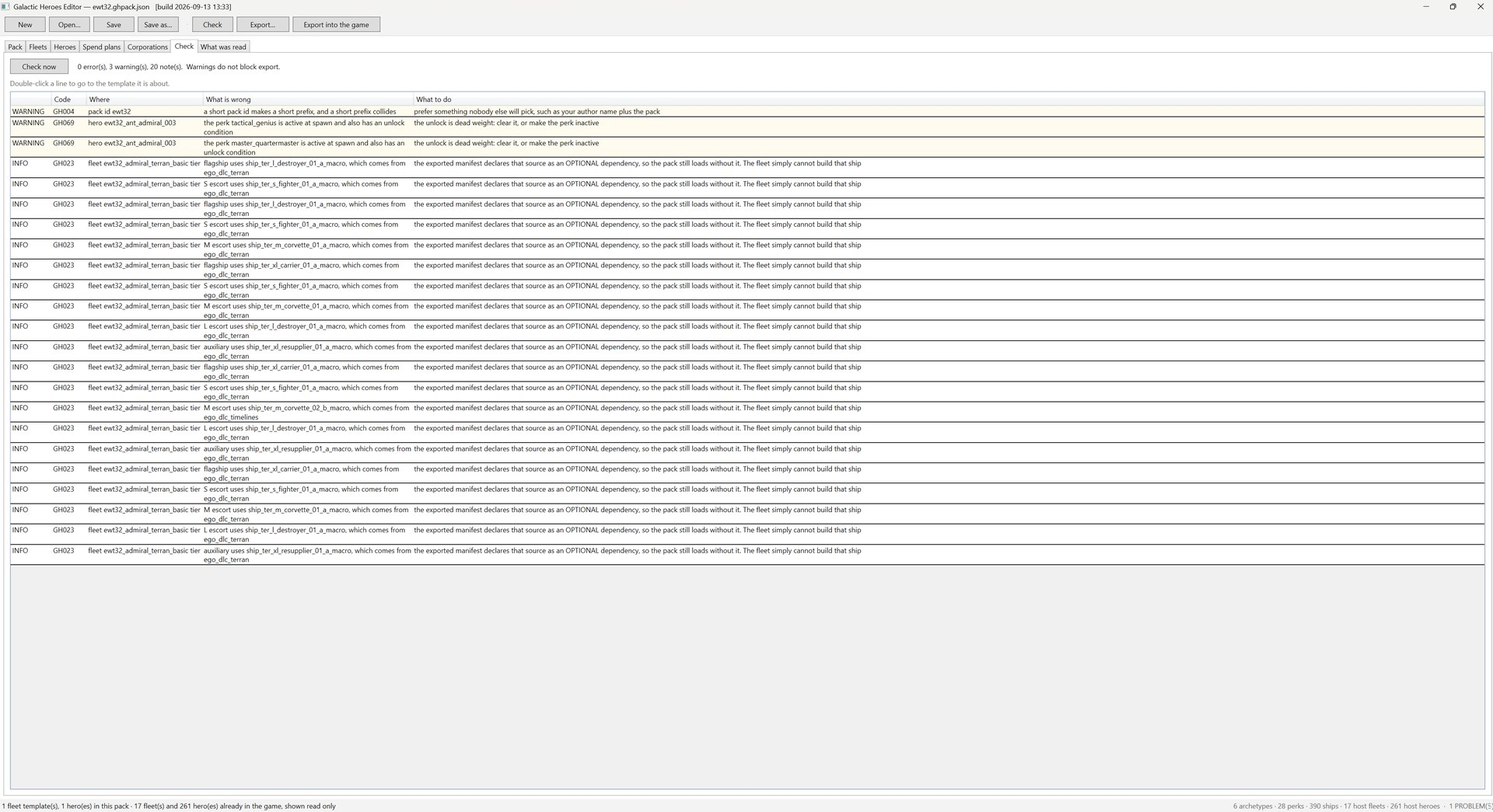
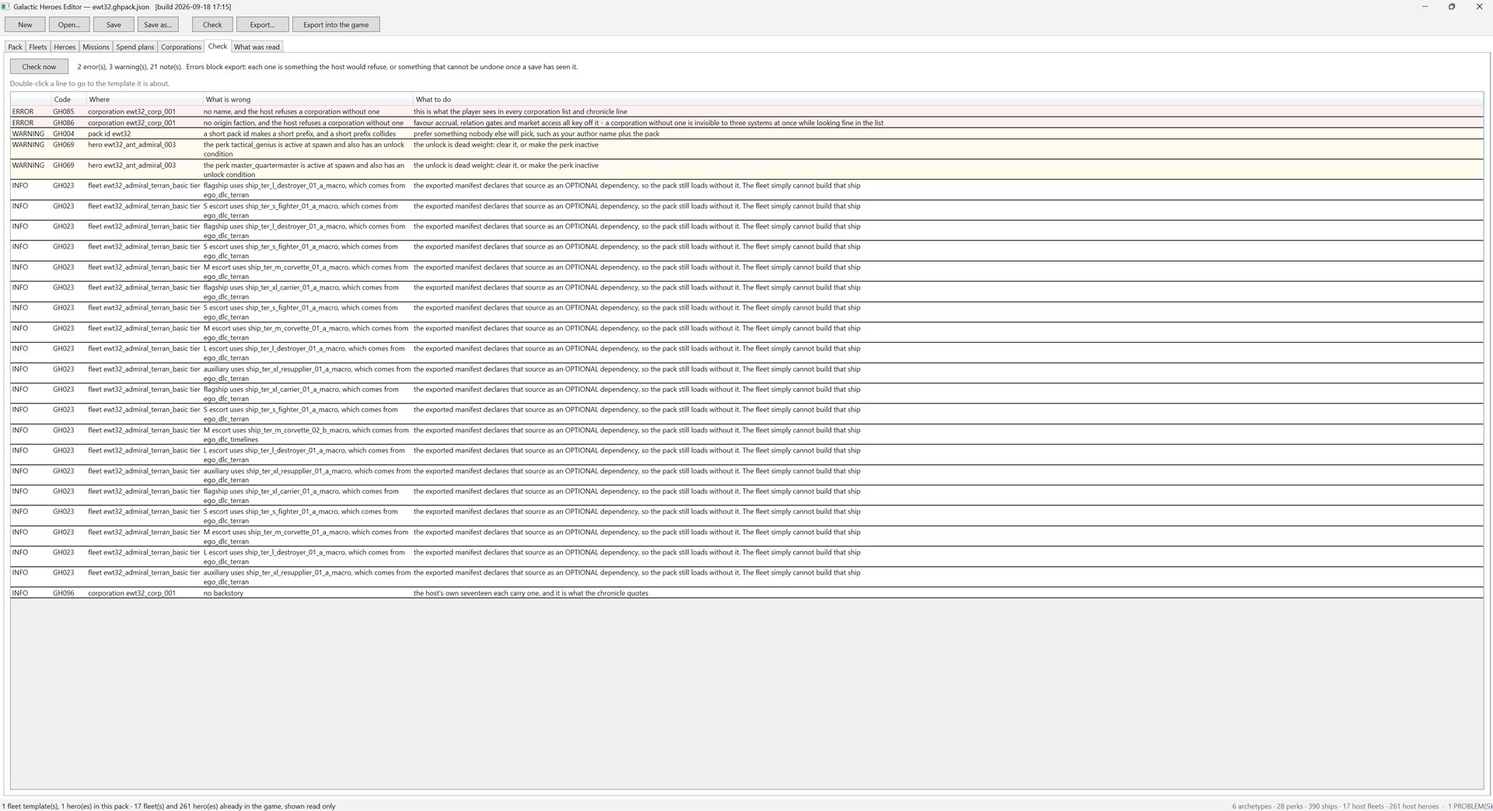
docs: re-shot against the build that reads the mod's words
Thirteen captures replacing twelve. The set now shows the 17:15 build, which
is the first that resolves the host's text page, so ranks read "Vice Admiral
Eli Sorensen", perks read "Veteran - +200 XP at spawn" and the seventeen
companies read "Cinderhaul Reclamation" instead of readtext ids. Five of the
decision kinds that used to show a blank archetype cell now name all six.

New: the Missions tab has a screenshot instead of an apology. The left-hand
shape claim is split, because Missions and Spend plans list only the pack's
own objects while Fleets, Heroes and Corporations show the host's beside them.

The Check shot is now a pack that CANNOT export - a half-written corporation
with no name and no origin faction - which teaches more than the clean one
did, so the prose walks the two errors, the three warnings and the twenty-one
notes rather than calling it healthy.

One caution added that the screen itself cannot say: the task-kind table
reads "admiral" for swarm_summon, hive_development, gate_defense,
fleet_defense, call_for_help and expansion. That is the BOARD SECTION, not
the owner - all six are Kha'ak work claimed by the hive lord and the seeder.
The editor shows the catalogue faithfully; the catalogue is what is wrong.

Changed region(s): [[0.0, 0.1227, 1.0, 0.767], [0.0, 0.9511, 1.0, 1.0], [0.0625, 0.0307, 0.375, 0.092]]

diff --git a/src/content/docs/mods/galactic-heroes/editor/reference.md b/src/content/docs/mods/galactic-heroes/editor/reference.md
@@ -7,7 +7,7 @@ The [walkthrough](../walkthrough/) builds one pack end to end. This page is the 
 
 ## The window
 
-The title bar carries the open pack file and **the build stamp of the editor itself** — `Galactic Heroes Editor — ewt32.ghpack.json [build 2026-09-13 13:33]`, and `DEBUG` when it is a debug build. Which build am I looking at should be a reading, not a deduction.
+The title bar carries the open pack file and **the build stamp of the editor itself** — `Galactic Heroes Editor — ewt32.ghpack.json [build 2026-09-18 17:15]`, and `DEBUG` when it is a debug build. Which build am I looking at should be a reading, not a deduction.
 
 The toolbar is seven buttons:
 
@@ -33,15 +33,15 @@ The status bar is two halves. On the left, what is in this pack and what the hos
 | **Check** | nothing — it reports | 86 rules |
 | **What was read** | nothing — it reports | six screens proving the harvest |
 
-Every authoring tab has the same left-hand shape: a filter box, then **In this pack** above **Already in Galactic Heroes — read only**, then **Add**, **Copy into this pack** and **Remove**. Host objects are shown so you can read, filter and copy them; they can never be edited, because an edit to something the host owns would be silently discarded and the host may reshape it in any later version.
+**Fleets**, **Heroes** and **Corporations** share a left-hand shape: a filter box, then **In this pack** above **Already in Galactic Heroes — read only**, then **Add**, **Copy into this pack** and **Remove**. Host objects are shown so you can read, filter and copy them; they can never be edited, because an edit to something the host owns would be silently discarded and the host may reshape it in any later version.
+
+**Missions** and **Spend plans** list only what the pack itself defines, with **Add**, **Copy** and **Delete**. What the host already declares is on the *What was read* screens instead — [Spend](#spend--the-hosts-plans-in-order) for its eleven plans.
 
 ## Missions
 
 A corporation mission is paid work a company offers you against a rival it is already fighting. The mod ships six; a pack can add more. See [Corporation missions](../../corporate/corporation-missions/) for what they are in game.
 
-:::note[No screenshot yet]
-The Missions tab was added after the screenshots on these pages were taken, so it is described here rather than shown.
-:::
+![Galactic Heroes Editor, Missions tab. A left-hand panel explains that these are missions a corporation offers the player against a rival, and that the target is chosen at runtime: a station managed by a corporation the client is already paying to hurt. Below it an empty list with Add, Copy and Delete buttons. The right pane holds Mission id "test" and empty Title, Briefing and Objective boxes. A section headed "What the player does there" says the panel list is read from the game's own schema, so it is whatever your installed version declares, and that hack_* panels break something while access_* panels only look and are worth less; under it an empty Control panel dropdown. A second section, "When it is offered, and for how much", says a grudge counts campaigns one corporation has already run against another, that zero means the mission is offered without a feud and two means it waits for a real one; under it empty Reward, Minimum grudge and Mission level boxes](/x4-modding-wiki/img/mods/galactic-heroes/editor-missions.jpg)
 
 | Field | What it decides |
 |---|---|
@@ -60,7 +60,7 @@ One note rather than an error is worth knowing about: `access_*` panels only *lo
 
 ## Corporations are not like the rest
 
-![Galactic Heroes Editor, Corporations tab. The left panel explains that companies this pack founds are listed beside the host's, so you can see which faction and which niche are already taken. "In this pack" holds ewt32_corp_001 with no name; "Already in Galactic Heroes - read only" lists seventeen host companies - cinderhaul, greenlane, blackgate, quietwater, amaranth, halcyon, rahar, bellwright, ascension, axiom, harborlight, deeptide, covenant, sable, amitra, throughline and verdant. The right pane holds Id, an empty Name, Origin faction boron with a note that it is not decoration because favour accrual, relation gates and market access all key off it, and Bucket A. A "How it behaves" section holds Founding capital 100000000, Aggression 100 and Defence reserve -1, each with a sentence explaining it. A "Who they are" section holds Field, Dirty side and Backstory. At the bottom, "What this company will be" reads: this company joins a market of 17; at 100M it is an even match for the companies already there, neither predator nor prey; it goes after rivals as readily as anybody else on the board; it has no origin faction yet, and the host refuses a corporation without one](/x4-modding-wiki/img/mods/galactic-heroes/editor-corporations.jpg)
+![Galactic Heroes Editor, Corporations tab. The left panel explains that companies this pack founds are listed beside the host's, so you can see which faction and which niche are already taken. "In this pack" holds ewt32_corp_001 with no name; "Already in Galactic Heroes - read only" lists the seventeen host companies by id and name - cinderhaul Cinderhaul Reclamation, greenlane Greenlane Holdings, blackgate Blackgate Freeport Capital, quietwater Quietwater Intelligence, amaranth Amaranth Health Trust, halcyon Halcyon Arms Concord, rahar Rahar Ascendant Capital, bellwright Bellwright Capital, ascension Ascension Reach Trust, axiom Axiom Claytronics, harborlight Harborlight Commerce Trust, deeptide Deeptide Stewardship Fund, covenant Covenant Trust, sable Sable Ledger Assurance, amitra Amitra Concord Capital, throughline Throughline Capital and verdant Verdant Accord Trust. The right pane holds Id, an empty Name, an empty Origin faction with a note that it is not decoration because favour accrual, relation gates and market access all key off it, and Bucket A. A "How it behaves" section holds Founding capital 100000000, Aggression 100 and Defence reserve -1, each with a sentence explaining it. A "Who they are" section holds Field, Dirty side and Backstory. At the bottom, "What this company will be" reads: this company joins a market of 17; at 100M it is an even match for the companies already there, neither predator nor prey; it goes after rivals as readily as anybody else on the board; it has no origin faction yet, and the host refuses a corporation without one](/x4-modding-wiki/img/mods/galactic-heroes/editor-corporations.jpg)
 
 Everything else the editor writes is a **catalogue entry**. The mod wipes its fleet and hero tables on every load and each extension registers into the empty table, so exporting again simply replaces what was there.
 
@@ -129,7 +129,7 @@ Six screens, and the reason they exist is that **an empty list somewhere else in
 
 ### Reading — did it read, from where, and how much
 
-![Galactic Heroes Editor, What was read, Reading screen. A "Problems while reading" box holds one red line: "ignored extensions_disabled_backup_20260820: it holds extensions in a folder the game does not load from, so nothing in it is really installed". Below, "Where the game loads data from" lists the sources in load order with their entry counts - base 461598 packed and 383 loose, ego_dlc_boron 9039 packed, ego_dlc_mini_01 591, ego_dlc_mini_02 1418, ego_dlc_pirate 7206, ego_dlc_split 11290, ego_dlc_terran 15111, ego_dlc_timelines 7021 - each with 2 or 4 loose files. A Counts block follows: archetypes 6 with admin retired, perks 28, task kinds 26, decision kinds 19, decision sets 6, host fleet templates 17, host hero templates 261 in 53 groups, factions in the game 32 of which 0 from mods, 19 claim space and 6 tagged pirate, factions used by the host 22, ranks used by the host 133, ship macros 390 broken down by source, and the default decision set for each archetype](/x4-modding-wiki/img/mods/galactic-heroes/editor-read-reading.jpg)
+![Galactic Heroes Editor, What was read, Reading screen. A "Problems while reading" box holds one red line: "ignored extensions_disabled_backup_20260820: it holds extensions in a folder the game does not load from, so nothing in it is really installed". Below, "Where the game loads data from" lists the sources in load order with their entry counts - base 461598 packed and 383 loose, ego_dlc_boron 9039 packed, ego_dlc_mini_01 591, ego_dlc_mini_02 1418, ego_dlc_pirate 7206, ego_dlc_split 11290, ego_dlc_terran 15111, ego_dlc_timelines 7021 - each with 2 or 4 loose files. A Counts block follows, opening with "text read from the mod 1438 string(s) (0001.xml, 0001-l007.xml; the first is the one shown)", then archetypes 6 with admin retired, perks 28, task kinds 26, decision kinds 19, decision sets 6, host fleet templates 17, host hero templates 261 in 53 groups, factions in the game 32 of which 0 from mods, 19 claim space and 6 tagged pirate, factions used by the host 22, ranks used by the host 133, ship macros 390 broken down by source, and the default decision set for each archetype](/x4-modding-wiki/img/mods/galactic-heroes/editor-read-reading.jpg)
 
 Three blocks:
 
@@ -145,7 +145,7 @@ Every faction the game has, with its source and its tags. **`claims space` is th
 
 ### Heroes — what the host declares
 
-![Galactic Heroes Editor, What was read, Heroes screen. An Archetypes table with columns id, label, commands, fleet upgrades, station bound, Kha'ak only and subordinate cap lists six rows: admiral commands fleet with fleet upgrades on, cap 0; engineer the same; raider the same; seeder commands summon_pool with fleet upgrades on and Kha'ak only ticked, cap 0; coordinator commands fleet_leaders with fleet upgrades off, station bound ticked and a subordinate cap of 5; hive_lord commands subordinates with fleet upgrades off, station bound and Kha'ak only ticked, and a cap of 8. A Perks table below lists veteran, logistic, attentive, quick_learner, lucky, volunteer, second_in_line, third_in_line, mlog_khaak_seed, squad_commander, master_technician and quartermaster with their tier - common or rare - and their names and descriptions shown as unresolved readtext ids](/x4-modding-wiki/img/mods/galactic-heroes/editor-read-heroes.jpg)
+![Galactic Heroes Editor, What was read, Heroes screen. An Archetypes table with columns id, label, commands, fleet upgrades, station bound, Kha'ak only and subordinate cap lists six rows: admiral labelled Admiral commands fleet with fleet upgrades on, cap 0; engineer labelled Engineer the same; raider labelled Raider the same; seeder labelled Seeder commands summon_pool with fleet upgrades on and Kha'ak only ticked, cap 0; coordinator labelled Coordinator commands fleet_leaders with fleet upgrades off, station bound ticked and a subordinate cap of 5; hive_lord labelled Hive Lord commands subordinates with fleet upgrades off, station bound and Kha'ak only ticked, and a cap of 8. A Perks table below gives each perk its name and what it does: Veteran, common, +200 XP at spawn - promoted to second star immediately; Logistic, +50% Recovery Points accrual rate; Attentive, +50% XP gain from combat; Quick Learner, rare, -25% XP needed to reach next star; Lucky, rare, -10% chance of KIA in death roll; Volunteer, spawn weight ten times more likely to be picked when a slot opens; Second in Line and Third in Line, which cannot spawn until the faction already has one or two active heroes; Khaak Seed, which adds RP to a shared grief pool on each three-minute cycle; Squad Commander, +2 S-class fighters in escort from first star; Master Technician, rare, engineer station buff potency relative +20%; and Quartermaster, -25% RP cost when rebuilding escorts](/x4-modding-wiki/img/mods/galactic-heroes/editor-read-heroes.jpg)
 
 The archetype table is the most useful thing on this screen, because **it is where the differences between the six live**:
 
@@ -164,12 +164,11 @@ It reads the **default** page — the one X4 falls back to for every language th
 
 An older host with no `t` folder still carries its text inline, and everything simply displays as it always did.
 
-*The screenshot above predates this reader and still shows the raw ids.*
 :::
 
 ### Decisions — the two halves, compared
 
-![Galactic Heroes Editor, What was read, Decisions screen. A note explains that two lists describe decisions - the catalogue says what a decision can BE, the sets say what a template offers - and that they live in different files and neither knows about the other, so they are compared here. "Decision kinds the host declares" lists idle, guard, guard_hive, hunting, urgent_defense, station_strike, fishing, recon, raid, lurk, replenish and retreat with the archetypes that may take each and a "declared by" column reading core. A line notes that 5 declared kinds are set by no set - fishing, hunting, player_contract, recon, station_strike - because the decision worker reaches for some of these on its own, so it is a note and not a fault. "Task kinds the host declares" lists system_resonance for the admiral, emergency, invasion, defensive_build, defensive_repair and defensive_dismantle for the coordinator, trader_ambush, saboteur_run, base_reinforce, base_build and joint_raid for the raider, and station_strike for admiral and raider, with a declared-by column that reads core or core-no-page. A Decision sets block spells out the six sets - adm, rdr, eng, coord, hive and seeder - with their decisions and priorities](/x4-modding-wiki/img/mods/galactic-heroes/editor-read-decisions.jpg)
+![Galactic Heroes Editor, What was read, Decisions screen. A note explains that two lists describe decisions - the catalogue says what a decision can BE, the sets say what a template offers - and that they live in different files and neither knows about the other, so they are compared here. "Decision kinds the host declares" lists each kind with its label and the archetypes that may take it: idle, replenish and retreat name all six - admiral, engineer, raider, seeder, coordinator, hive_lord - while guard names admiral, engineer, raider and coordinator, guard_hive names seeder and hive_lord, hunting names admiral and raider, urgent_defense names admiral and coordinator, station_strike names admiral and raider, fishing and recon name admiral, raider and coordinator, and raid and lurk name the raider alone. A declared-by column reads core throughout. A line notes that 5 declared kinds are offered by no set - fishing, hunting, player_contract, recon, station_strike - because the decision worker reaches for some of these on its own, so it is a note and not a fault. "Task kinds the host declares" lists fishing, recon and satellite worked by admiral, coordinator and raider, then station, expansion, hunting, urgent_defense, fleet_defense, gate_defense, call_for_help, hive_development and swarm_summon all listed against the admiral alone, with a declared-by column reading core. A Decision sets block spells out the six sets - adm, rdr, eng, coord, hive and seeder - with their decisions and priorities](/x4-modding-wiki/img/mods/galactic-heroes/editor-read-decisions.jpg)
 
 Two lists describe decisions, they live in different files, and **neither one knows about the other** — so the editor compares them here.
 
@@ -178,6 +177,12 @@ Two lists describe decisions, they live in different files, and **neither one kn
 - **Decision sets** — what a template *offers*, with priorities. These are the six the host keeps private, and the ones your exported pack carries as literals.
 
 Two columns repay attention. **`declared by`** reads `core`, or `core-no-page` for a task type that exists on the board and has no drill-down page in the mod's [Order Board](../../mechanics/order-board/). And the line under the first table — *"5 declared kind(s) are set by no set"* — is a **note, not a fault**: the decision worker reaches for some kinds on its own without any set offering them.
+
+:::caution[The task table says `admiral` more often than it should]
+Read the second table as *which board section a task is filed under*, not as *which archetype owns it*. The board prints three section headings while five archetypes produce work, so the catalogue files the leftovers under `admiral` — which is why `swarm_summon`, `hive_development`, `gate_defense`, `fleet_defense`, `call_for_help` and `expansion` all appear against the admiral here. **They are Kha'ak work.** The hive lord claims the first four and the seeder the last two, and the authority for that is the claim gate in the mod's decision script, not this column.
+
+The editor shows the catalogue faithfully; the catalogue is what is wrong. If you are composing an archetype from this screen, check [the Order Board page](../../mechanics/order-board/) for who actually claims a task type.
+:::
 
 ### Spend — the host's plans, in order
 

diff --git a/src/content/docs/mods/galactic-heroes/editor/walkthrough.md b/src/content/docs/mods/galactic-heroes/editor/walkthrough.md
@@ -25,7 +25,7 @@ Save the file now: **Save as…** writes a `.ghpack.json`. That file is your sou
 
 **Fleets** tab.
 
-![Galactic Heroes Editor, Fleets tab. A left-hand list is in two groups: "In this pack" holding ewt32_admiral_terran_basic with 5 tiers, and "Already in Galactic Heroes - read only" holding seventeen host templates from admiral_argon_basic to seeder_khaak_basic, each with 5 tiers. Buttons underneath read Add, "Copy into this pack" and Remove. The right-hand pane explains that a fleet template is a ladder, one entry per hero star, and shows the fleet id followed by tier cards. Tier 1: class L, flagship ship_ter_l_destroyer_01_a_macro, 4 S escorts of ship_ter_s_fighter_01_a_macro, 0 M, 0 L, no auxiliary. Tier 2 adds 8 S and 4 M corvettes. Tier 3 moves to class XL with ship_ter_xl_carrier_01_a_macro, 16 S, 4 M, 1 L and an ship_ter_xl_resupplier_01_a_macro auxiliary. Tier 4 shows 32 S, 8 M, 2 L](/x4-modding-wiki/img/mods/galactic-heroes/editor-fleets.jpg)
+![Galactic Heroes Editor, Fleets tab. A left-hand list is in two groups: "In this pack" holding ewt32_admiral_terran_basic with 5 tiers, and "Already in Galactic Heroes - read only" holding seventeen host templates from admiral_argon_basic to seeder_khaak_basic, each with 5 tiers. Buttons underneath read Add, "Copy into this pack" and Remove. The right-hand pane explains that a fleet template is a ladder, one entry per hero star, and shows the fleet id followed by five tier cards. Tier 1: class L, flagship ship_ter_l_destroyer_01_a_macro, 4 S escorts of ship_ter_s_fighter_01_a_macro, 0 M, 0 L, no auxiliary. Tier 2 adds 8 S and 4 M corvettes. Tier 3 moves to class XL with ship_ter_xl_carrier_01_a_macro, 16 S, 4 M, 1 L and a ship_ter_xl_resupplier_01_a_macro auxiliary. Tier 4 has 32 S, 8 M and 2 L. Tier 5 has 48 S, 16 M and 4 L on the same XL carrier. Below the last tier, buttons read "Add tier" and "Remove last tier"](/x4-modding-wiki/img/mods/galactic-heroes/editor-fleets.jpg)
 
 The list is always two groups: **In this pack**, which you can edit, and **Already in Galactic Heroes — read only**, which you cannot. The host's own templates are shown beside yours deliberately. You cannot edit them — a change to a borrowed object would be silently thrown away, and the mod that owns it may reshape it in any later version — but you can read them, filter them, and copy them.
 
@@ -54,7 +54,7 @@ Every ship in the dropdowns came from your own install, so a ship a mod added is
 
 **Heroes** tab. Press **Add**, or copy a host hero the same way you copied the fleet.
 
-![Galactic Heroes Editor, Heroes tab. A long left-hand list shows "In this pack" with one entry, ewt32_ant_admiral_003 "Admiral Drake Test", above "Already in Galactic Heroes - read only" listing host heroes by id. The right pane holds the hero form: Template id, Group (sublist) argon_admirals, Founder name "Drake Test", Rank Admiral with a note that the game prints the rank in front of the name so it should not be repeated, Faction argon, Archetype admiral described as commanding a fleet and taking fleet upgrades, Fleet template ewt32_admiral_terran_basic with a summary line reading "5 tier(s), topping out at XL flagship + 48S + 16M + 4L + aux - from this pack" and a "Show it" button, an empty Spend plan with a line saying it is inherited from the admiral archetype - Career Officer, 11 steps, 8 perk and 3 shares, opens with veteran - a Decision set "adm" with its decisions and priorities spelled out, a Spawns checkbox reading "this hero may appear in the game", and a Biography. Below is a Perks grid with columns Perk, Active at spawn, Unlock by and Target, holding capital_commander, tactical_genius unlocked by 4 stars, master_quartermaster unlocked by 6 kills, squad_expert and logistic](/x4-modding-wiki/img/mods/galactic-heroes/editor-heroes.jpg)
+![Galactic Heroes Editor, Heroes tab. A long left-hand list shows "In this pack" with one entry, ewt32_ant_admiral_003 "Admiral Drake Test", above "Already in Galactic Heroes - read only" listing host heroes by id and full name - Vice Admiral Eli Sorensen, Captain Aria Vance, Commodore Drake Sullivan, Captain Theresa Hauer, Commander Andre Kowalczyk, Reform Strategist Naomi Sato, Chief Logistics Officer Marcus, Fleet Lord Iquithin, Patriarch Mell, Brother-Captain Korthos, Sword-of-Family Sayyad and so on. The right pane holds the hero form: Template id, Group (sublist) argon_admirals, Founder name "Drake Test", Rank Admiral with a note that the game prints the rank in front of the name so it should not be repeated, Faction argon, Archetype admiral with the line "Admiral commands fleet, takes fleet upgrades, flies", Fleet template ewt32_admiral_terran_basic with a summary reading "5 tier(s), topping out at XL flagship + 48S + 16M + 4L + aux - from this pack" and a "Show it" button, an empty Spend plan with a line saying it is inherited from the admiral archetype - Career Officer, 11 steps, 8 perk and 3 shares, opens with veteran - a Decision set "adm" with its decisions and priorities spelled out, a Spawns checkbox reading "this hero may appear in the game", and a Biography. Below is a Perks grid with columns Perk, Active at spawn, Unlock by and Target, holding capital_commander, tactical_genius unlocked by 4 stars, master_quartermaster unlocked by 6 kills, squad_expert and logistic](/x4-modding-wiki/img/mods/galactic-heroes/editor-heroes.jpg)
 
 Field by field:
 
@@ -88,7 +88,7 @@ A perk whose `applies_to` list does not include this hero's archetype is a **war
 
 **Spend plans** tab. A plan is what a hero buys with its money, **in order**.
 
-![Galactic Heroes Editor, Spend plans tab. A left panel lists "Plan 1 (ewt32_plan_1)" with Add, Copy and Delete buttons. The right pane holds Plan id ewt32_plan_1 and Label "Plan 1", then a table headed "Steps, in the order they are bought" with columns kind, perk, shares target (cr), pick and buys. Two perk rows are present: veteran and capital_expert, each with a 10000000 shares target and "most_expensive" as the pick. Buttons read Add perk step, Add shares step, Move up, Move down and Remove. A "What this plan does" summary reads "2 step(s): 2 perk, 0 shares. No hero in this pack names it yet, so nothing runs it." followed by a warning that 1 perk step names no perk](/x4-modding-wiki/img/mods/galactic-heroes/editor-spend-plans.jpg)
+![Galactic Heroes Editor, Spend plans tab. A left panel lists "Plan 1 (ewt32_plan_1)" with Add, Copy and Delete buttons. The right pane holds Plan id ewt32_plan_1 and Label "Plan 1", then a table headed "Steps, in the order they are bought" with columns kind, perk, shares target (cr), pick and buys. One perk row is present: veteran, with a 10000000 shares target and "most_expensive" as the pick. Buttons read Add perk step, Add shares step, Move up, Move down and Remove. A "What this plan does" summary reads "1 step(s): 1 perk, 0 shares. No hero in this pack names it yet, so nothing runs it."](/x4-modding-wiki/img/mods/galactic-heroes/editor-spend-plans.jpg)
 
 Order is the whole meaning. **Step 1 is bought before step 2 whatever the perk tiers say**, and a hero that cannot afford a step **waits** for it rather than skipping to a cheaper one — so moving a row changes what heroes save for. Two kinds of step:
 
@@ -97,13 +97,17 @@ Order is the whole meaning. **Step 1 is bought before step 2 whatever the perk t
 
 A step that cannot run is skipped rather than blocking the ones below it: a perk the hero's archetype cannot take is skipped permanently, a share step with no seller on the market is skipped until there is one.
 
-The **What this plan does** line underneath is the part worth reading. Above it says, correctly, that no hero in this pack names the plan yet — so nothing runs it.
+The **What this plan does** line underneath is the part worth reading. Above it says, correctly, that the plan has one perk step and no share steps, and that no hero in this pack names it yet — so nothing runs it. A plan nobody points at is not an error; it is simply inert.
+
+### The other two tabs
+
+A pack can also author **corporation missions** and **corporations**, and neither is on this path because neither is needed for a hero to fly. Both are on the reference page: [Missions](./reference/#missions) for paid jobs a company offers the player, and [Corporations](./reference/#corporations-are-not-like-the-rest) for companies — **read that one before you found a company**, because it is the only object here that a save keeps forever.
 
 ## 5. Check
 
 **Check** tab, or the **Check** button in the toolbar.
 
-![Galactic Heroes Editor, Check tab. A "Check now" button sits beside the summary "0 error(s), 3 warning(s), 20 note(s). Warnings do not block export." A hint reads "Double-click a line to go to the template it is about." The grid has columns for severity, Code, Where, What is wrong and What to do. A WARNING GH004 says the short pack id ewt32 makes a short prefix and a short prefix collides, and to prefer something nobody else will pick. Two WARNING GH069 rows say the perks tactical_genius and master_quartermaster are active at spawn and also have an unlock condition, so the unlock is dead weight. Twenty INFO GH023 rows follow, each naming a ship macro in the fleet that comes from ego_dlc_terran or ego_dlc_timelines, and explaining that the exported manifest declares that source as an OPTIONAL dependency so the pack still loads without it and simply cannot build that ship](/x4-modding-wiki/img/mods/galactic-heroes/editor-check.jpg)
+![Galactic Heroes Editor, Check tab. A "Check now" button sits beside the summary "2 error(s), 3 warning(s), 21 note(s). Errors block export: each one is something the host would refuse, or something that cannot be undone once a save has seen it." A hint reads "Double-click a line to go to the template it is about." The grid has columns for severity, Code, Where, What is wrong and What to do. Two red ERROR rows come first: GH085 on corporation ewt32_corp_001, no name, with "this is what the player sees in every corporation list and chronicle line"; and GH086 on the same corporation, no origin faction, with "favour accrual, relation gates and market access all key off it - a corporation without one is invisible to three systems at once while looking fine in the list". Three yellow WARNING rows follow: GH004 saying the short pack id ewt32 makes a short prefix and a short prefix collides, and two GH069 rows saying the perks tactical_genius and master_quartermaster are active at spawn and also have an unlock condition, so the unlock is dead weight. Then twenty INFO GH023 rows, each naming a ship macro in the fleet that comes from ego_dlc_terran or ego_dlc_timelines and explaining that the exported manifest declares that source as an OPTIONAL dependency so the pack still loads without it, and a final INFO GH096 saying the corporation has no backstory, which the host's own seventeen each carry and the chronicle quotes](/x4-modding-wiki/img/mods/galactic-heroes/editor-check.jpg)
 
 86 rules, in three severities:
 
@@ -113,7 +117,9 @@ The **What this plan does** line underneath is the part worth reading. Above it 
 | **25 warnings** | do not block. The pack will load; the warning says what it will look like in game. |
 | **7 notes** | information the author could not otherwise have. Most of them are the DLC dependency lines above. |
 
-Every row says **what to do about it**, and **double-clicking a row jumps to the template it is about**. The shot above is a healthy pack: a short-prefix warning, two perks that are active at spawn *and* carry a pointless unlock, and twenty notes telling you which DLC each Terran ship came from.
+Every row says **what to do about it**, and **double-clicking a row jumps to the template it is about**.
+
+The shot above is a pack that **cannot be exported yet**, and it is worth walking. The two red rows are one half-written corporation: no name and no origin faction. Both are errors rather than warnings because the host refuses a company without either, and a company is the one object a save keeps forever — so there is no fixing it later. The three warnings will export fine: a pack id short enough to collide with somebody else's, and two perks that are switched on at spawn *and* carry an unlock condition that can therefore never do anything. The twenty-one notes are mostly the DLC ledger — which Terran ship came from which extension, each of which becomes an optional dependency line in the manifest.
 
 The [reference](./reference/#what-it-refuses) explains the three kinds of rule and why checking things the host already checks is not redundant.
 

diff --git a/src/content/docs/mods/galactic-heroes/editor/index.md b/src/content/docs/mods/galactic-heroes/editor/index.md
@@ -9,7 +9,7 @@ Editing the mod is the worst possible answer. It breaks on the next release, it 
 
 The **Galactic Heroes Editor** is the other answer. It is a small Windows desktop app that writes a **separate X4 extension** which registers into the host mod through a published seam. You never open the host. You never write a line of MD. And the editor refuses to export a pack that the host would reject — or that a save could not recover from.
 
-![Galactic Heroes Editor, Pack tab. The window title reads "Galactic Heroes Editor - ewt32.ghpack.json [build 2026-09-13 13:33]". A toolbar carries New, Open, Save, Save as, Check, Export and "Export into the game". Eight tabs run below it. The Pack tab holds two sections: "The extension" with Pack id ewt32, Display name test221, Author mlog4, Version 1 and a Description box; and "Where things are" with the X4 game folder, the Galactic Heroes md folder and an export folder, each with a Browse button, and a "Reload from these folders" button. The status bar reads "1 fleet template(s), 1 hero(es) in this pack - 17 fleet(s) and 261 hero(es) already in the game, shown read only" on the left and "6 archetypes - 28 perks - 390 ships - 17 host fleets - 261 host heroes - 1 PROBLEM(S)" on the right](/x4-modding-wiki/img/mods/galactic-heroes/editor-pack.jpg)
+![Galactic Heroes Editor, Pack tab. The window title reads "Galactic Heroes Editor - ewt32.ghpack.json [build 2026-09-18 17:15]". A toolbar carries New, Open, Save, Save as, Check, Export and "Export into the game". Eight tabs run below it: Pack, Fleets, Heroes, Missions, Spend plans, Corporations, Check and "What was read". The Pack tab holds two sections: "The extension" with Pack id ewt32, Display name test221, Author mlog4, Version 1 and a Description box reading "rwar"; and "Where things are" with the X4 game folder, the Galactic Heroes md folder and an export folder, each with a Browse button, and a "Reload from these folders" button. The status bar reads "1 fleet template(s), 1 hero(es) in this pack - 17 fleet(s) and 261 hero(es) already in the game, shown read only" on the left and "6 archetypes - 28 perks - 390 ships - 17 host fleets - 261 host heroes - 1 PROBLEM(S)" on the right](/x4-modding-wiki/img/mods/galactic-heroes/editor-pack.jpg)
 
 ## The three layers
 
@@ -87,7 +87,7 @@ powershell -ExecutionPolicy Bypass -File tools/make-shortcut.ps1
 
 Use `build.ps1` rather than a bare `dotnet build`. The bare command defaults to **Debug** while the desktop shortcut launches **Release**, and the two can drift by a day without anything looking wrong. `build.ps1` builds Release, runs both test lanes **from the Release binary**, and refuses outright if the binary is older than a source file.
 
-The window title carries its own build stamp for the same reason — `[build 2026-09-13 13:33]`, and `DEBUG` when it is one. Which build am I looking at should be a reading, not a deduction from file timestamps.
+The window title carries its own build stamp for the same reason — `[build 2026-09-18 17:15]`, and `DEBUG` when it is one. Which build am I looking at should be a reading, not a deduction from file timestamps.
 
 ## First run
 
